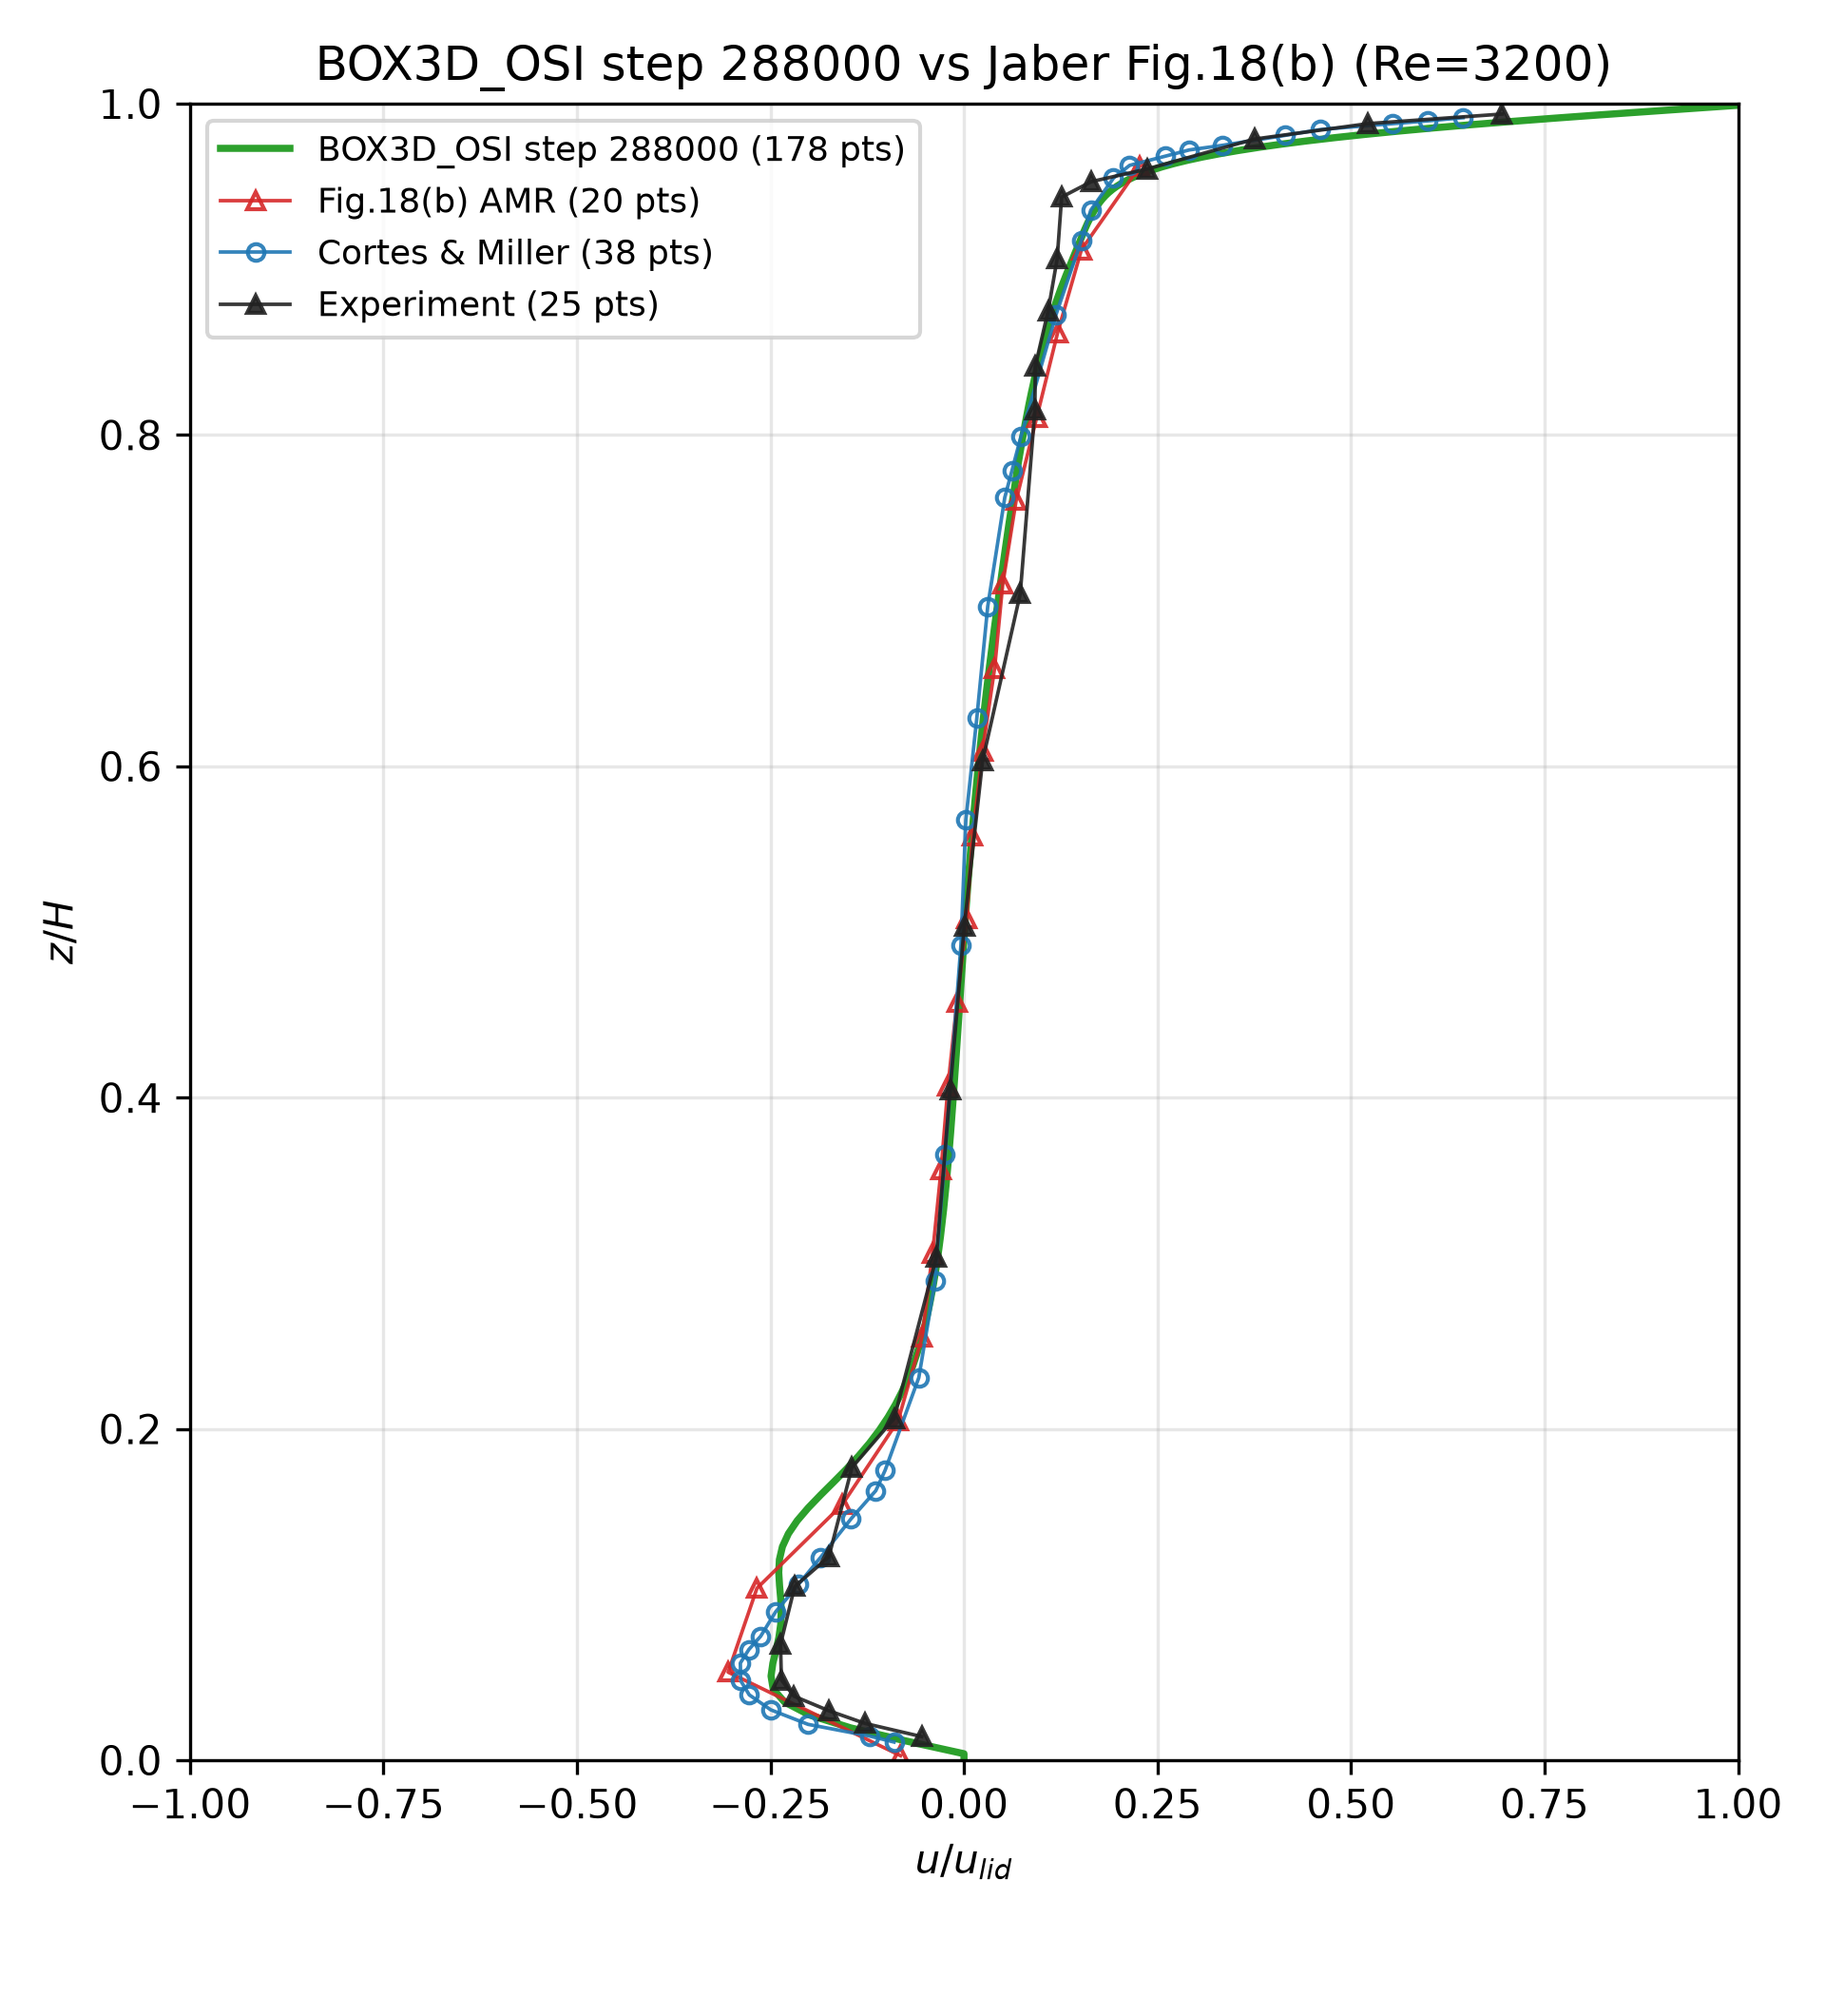
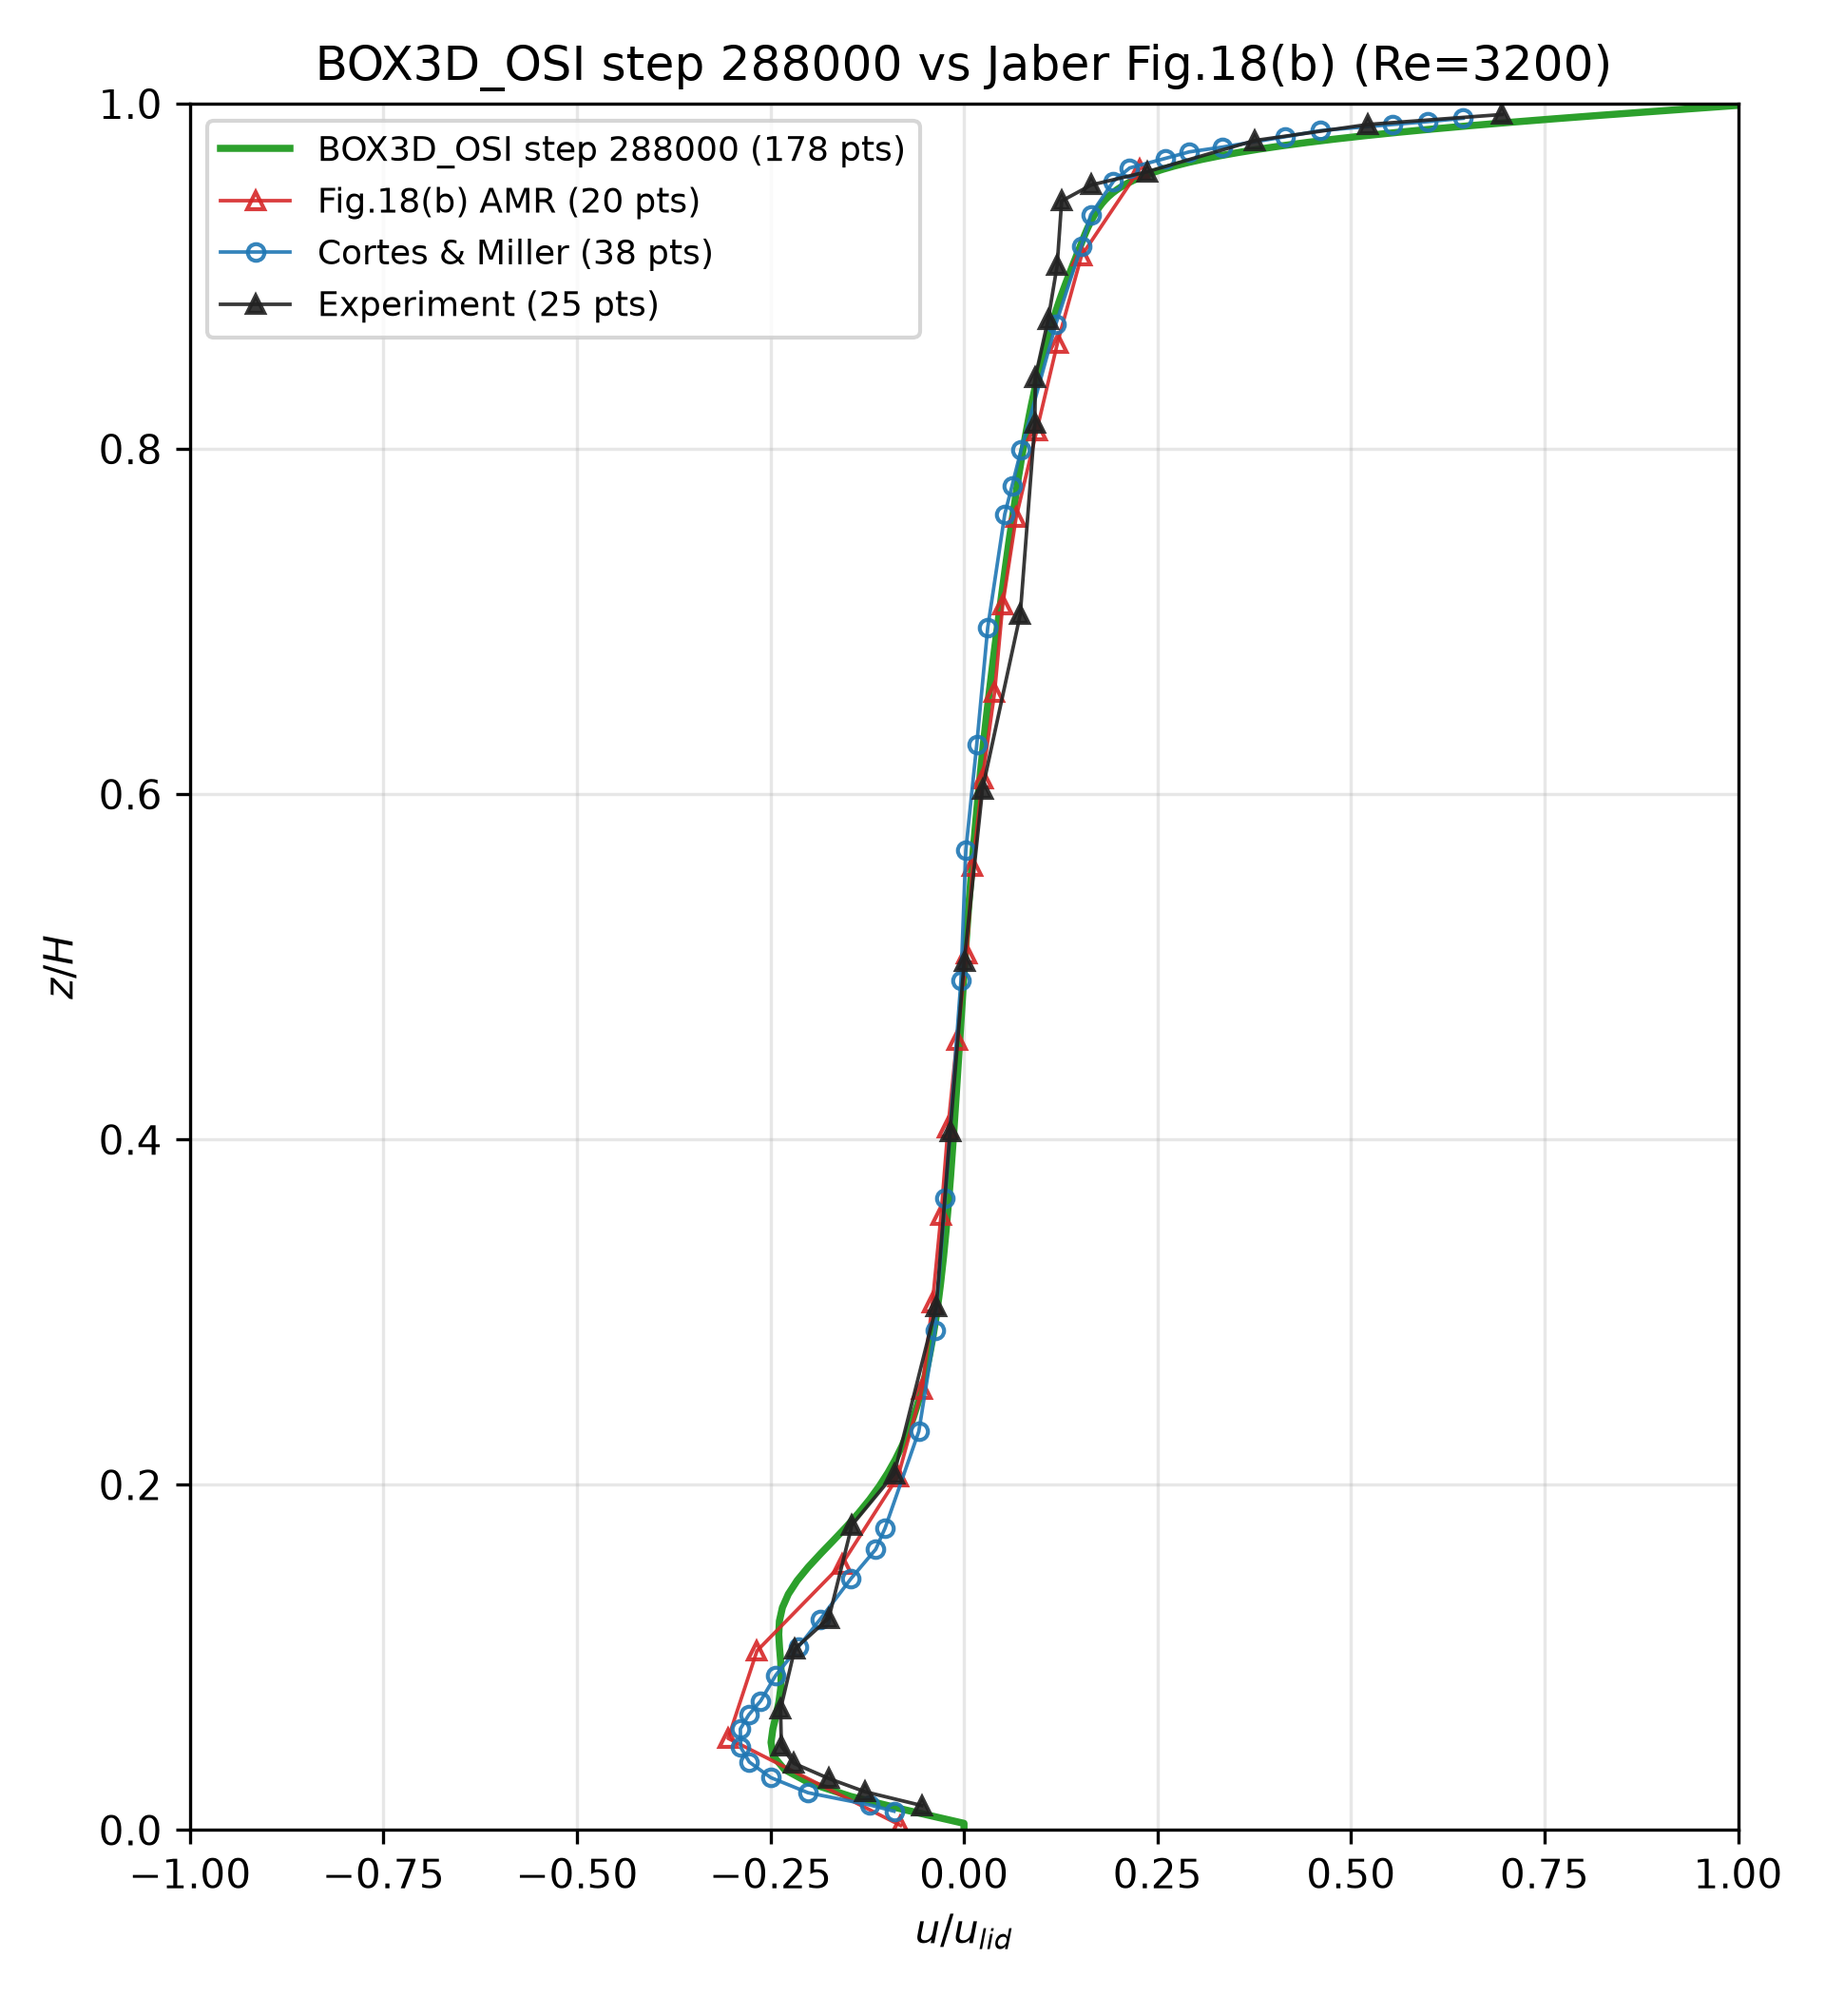
before codex

diff --git a/projects/3Dcases/Computing_performance_test/BOX3D_OSI/data_post_processing/plot_Re3200_3D_overlap_288000_fig18b.py b/projects/3Dcases/Computing_performance_test/BOX3D_OSI/data_post_processing/plot_Re3200_3D_overlap_288000_fig18b.py
@@ -135,7 +135,7 @@ ax.legend(fontsize=8.7, loc="upper left")
 #     "u/u_lid = ux/0.05",
 #     ha="center", fontsize=7.8,
 # )
-fig.tight_layout(rect=(0, 0.035, 1, 1))
+fig.tight_layout()
 fig.savefig(OUT, dpi=300)
 
 print(f"wrote: {OUT}")
